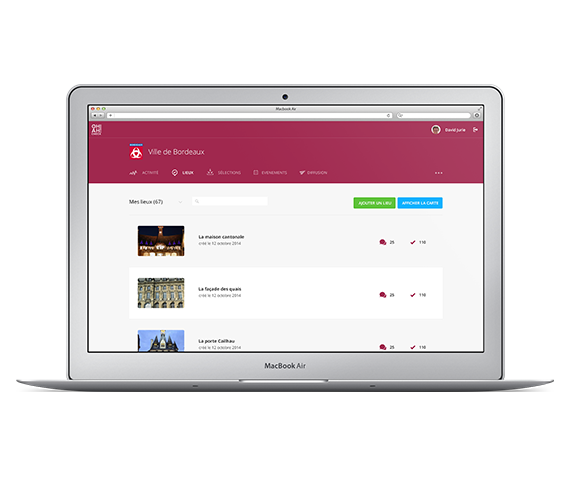
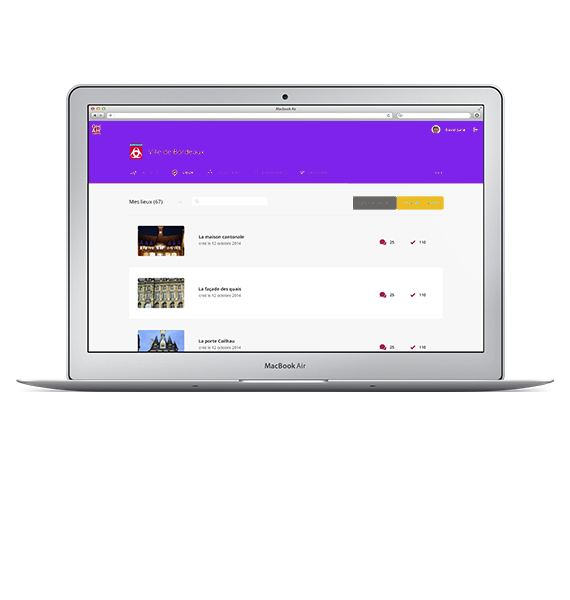
fix hero

Changed region(s): [[0.0298, 0.12, 0.9842, 0.81], [0.7158, 0.48, 0.7456, 0.51], [0.6561, 0.48, 0.686, 0.51]]

diff --git a/src/modules/Hero/Hero.vue b/src/modules/Hero/Hero.vue
@@ -14,30 +14,30 @@
 
       <section class="card-sm__container">
         <!--- START: CARD --->
-        <section class="card-sm" style="background-image:url('https://images.unsplash.com/photo-1584962356612-f7092400e895?ixlib=rb-1.2.1&ixid=eyJhcHBfaWQiOjEyMDd9&auto=format&fit=crop&w=600&q=60')">
-          <p class="card__text-sm">Tanifa - Spain</p>
-          <h1 class="card__text-lg">Los Lances Beach</h1>
+        <section class="card-sm" style="background-image:url('/img/accueil.png')">
+          <p class="card__text-sm">Une selection</p>
+          <h6 class="card__text-lg">Personnalisée d'oeuvres originales chaque semaine</h6>
         </section>
         <!--- END: CARD --->
 
         <!--- START: CARD --->
-        <section class="card-sm" style="background-image: url('https://images.unsplash.com/photo-1489823480956-0204142cfebd?ixlib=rb-1.2.1&ixid=eyJhcHBfaWQiOjEyMDd9&auto=format&fit=crop&w=600&q=60'); background-position: center right;">
-          <p class="card__text-sm">Japan Alps</p>
-          <h1 class="card__text-lg">Nagano Prefecture</h1>
+        <section class="card-sm" style="background-image:url('/img/profil.png')">
+          <p class="card__text-sm">Un profil</p>
+          <h6 class="card__text-lg">Avec votre planning d'évènements</h6>
         </section>
         <!--- END: CARD --->
 
         <!--- START: CARD --->
-        <section class="card-sm" style="background-image: url('https://images.unsplash.com/photo-1527549993586-dff825b37782?ixlib=rb-1.2.1&ixid=eyJhcHBfaWQiOjEyMDd9&auto=format&fit=crop&w=600&q=60')">
-          <p class="card__text-sm">Sierra Nevada - USA</p>
-          <h1 class="card__text-lg">Yosemite National  </h1>
+        <section class="card-sm" style="background-image:url('/img/evenement.png')">
+          <p class="card__text-sm">Des évènements</p>
+          <h6 class="card__text-lg">Détaillés et exclusifs</h6>
         </section>
         <!--- END: CARD --->
 
         <!--- START: CARD --->
-        <section class="card-sm" style="background-image: url('https://images.unsplash.com/photo-1537431701805-c1bb45cd2f92?ixlib=rb-1.2.1&ixid=eyJhcHBfaWQiOjEyMDd9&auto=format&fit=crop&w=600&q=60')">
-          <p class="card__text-sm">Cappadocia - Turkey</p>
-          <h1 class="card__text-lg">Goreme &nbsp; Valley</h1>
+        <section class="card-sm" style="background-image:url('/img/calendrier.png')">
+          <p class="card__text-sm">Un calendrier</p>
+          <h6 class="card__text-lg">Détaillé des évènements dans votre ville</h6>
         </section>
         <!--- END: CARD --->
       </section>
@@ -63,7 +63,7 @@ export default {
 /*CARD*/
 .card__btn {
   color: #fff;
-  border: 1px solid rgba(255,255,255,0.5);
+  border: 1px solid rgba(255,255,255,0.8);
   border-radius: 24px;
   font-size: 14px;
   text-align: center;
@@ -71,7 +71,7 @@ export default {
   text-transform: uppercase;
   width: 100px;
   margin: 8px 0 0;
-  opacity: 0.5;
+  opacity: 0.8;
   padding: 8px;
   margin-right: 15px;
   &:hover {
@@ -98,7 +98,7 @@ export default {
 }
 .card__text-lg {
   color: #fff;
-  font-size: 22px;
+  font-size: 15px;
   font-weight: 300;
   text-transform: uppercase;
   line-height: 1.2;
@@ -116,7 +116,7 @@ export default {
   overflow-x: scroll;
 
   .card__text-lg {
-    font-size: 40px;
+    font-size: 20px;
     font-weight: 400;
     letter-spacing: 1.4px;
     overflow: hidden;
@@ -128,7 +128,7 @@ export default {
     font-weight: 100;
     line-height: 1.5;
     padding: 0 32px 0 0;
-    opacity: 0.5;
+    opacity: 0.8;
   }
   .card__text-sm {
     font-size: 15px;
@@ -136,7 +136,7 @@ export default {
     text-overflow: ellipsis;
   }
   .card__text-sm::before {
-    width: 24px;
+    width: 15px;
     height: 2px;
   }
 }
@@ -152,7 +152,7 @@ export default {
   background: #ccc;
   background-size: cover; 
   background-position: center center;
-  box-shadow: inset 0 0 100vw 100vw rgba(0, 0, 0, 0.3),
+  box-shadow: inset 0 0 100vw 100vw rgba(0, 0, 0, 0.5),
     0 16px 8px -8px rgba(0,0,0,0.4);
   border-radius: 8px;
   width: 150px;
@@ -177,11 +177,22 @@ export default {
 
 
 /*HIDE DEFAULT SCROLL BAR*/
-// .main::-webkit-scrollbar {
-//   display: none;
-// }
+.card-sm__container::-webkit-scrollbar {
+  display: none;
+}
 
-// .main {
-//   -ms-overflow-style: none;
-// }
+/* Hide scrollbar for Chrome, Safari and Opera */
+.card-sm__container::-webkit-scrollbar {
+  display: none;
+}
+
+/* Hide scrollbar for IE, Edge and Firefox */
+.card-sm__container {
+  -ms-overflow-style: none;  /* IE and Edge */
+  scrollbar-width: none;  /* Firefox */
+}
+
+.card-sm__container {
+  -ms-overflow-style: none;
+}
 </style>

diff --git a/src/styles/commons.scss b/src/styles/commons.scss
@@ -75,12 +75,12 @@ h6 {
   font-family: $ff-lust;
 }
 button {
-  background-color: $yellow;
+  background-color: $purple;
   border-radius: 24px;
   padding: 15px 20px;
   border: none;
   a {
-    color: $dark-gray;
+    color:$ice;
     text-decoration: none;
     font-size: 16px;
     font-family: $ff-spartan;

diff --git a/src/pages/Home.vue b/src/pages/Home.vue
@@ -5,8 +5,8 @@
     </header>
     <main>
       <Hero />
-      <Partners/>
-      <Newsletter/>
+      <Partners />
+      <Newsletter />
     </main>
     <footer>
       <Footer />
@@ -27,7 +27,7 @@ export default {
     Hero,
     Footer,
     Partners,
-    Newsletter
+    Newsletter,
   },
 };
 </script>

diff --git a/src/components/Navbar/Navbar.vue b/src/components/Navbar/Navbar.vue
@@ -72,7 +72,6 @@ export default {
       a{color: $ice;}
       &:last-child{
         margin-top: 0;
-        a{color: $dark-gray;}
         }
     }
   }
